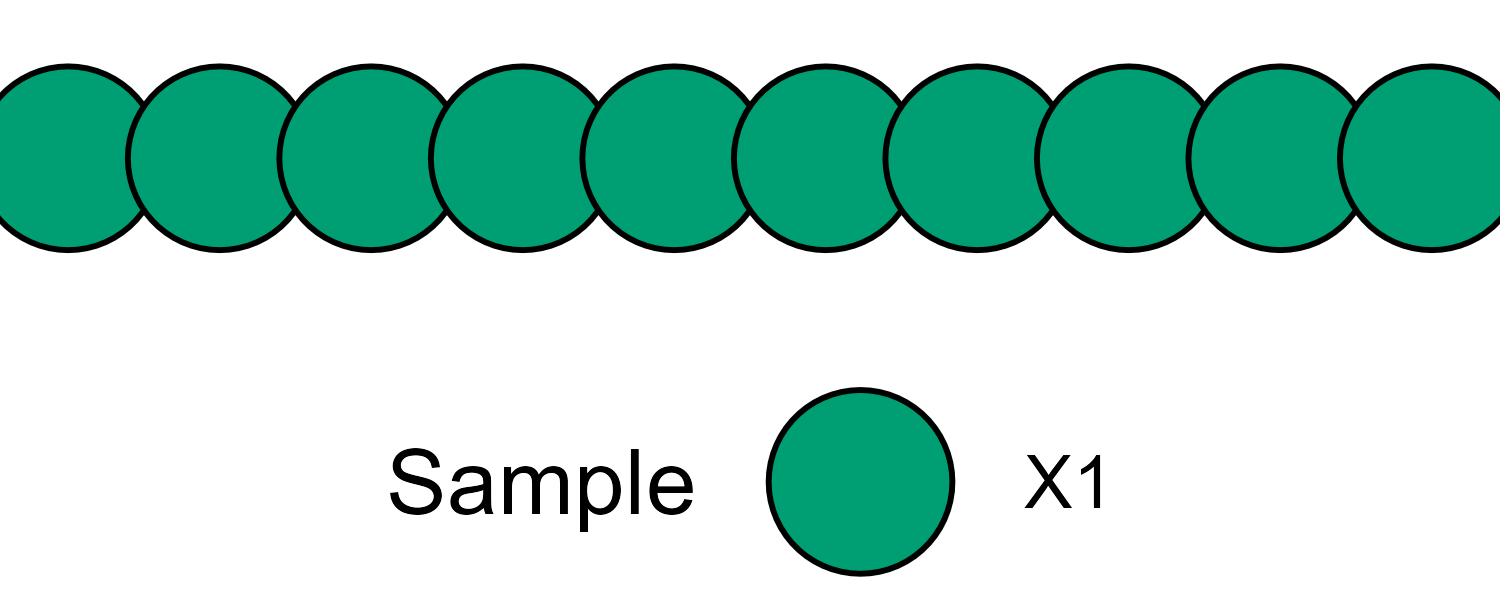
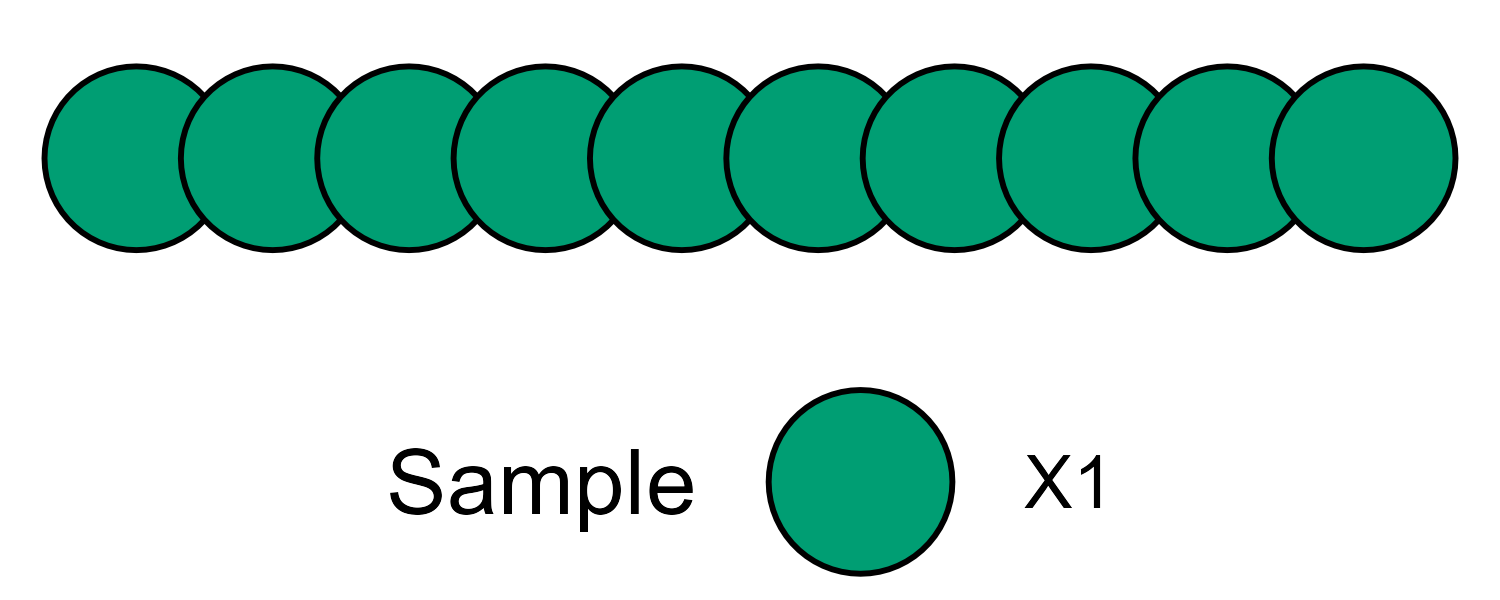
Revise sample figures and fix missing index entry

Changed region(s): [[0.0, 0.09, 1.0, 0.42], [0.736, 0.18, 0.7973, 0.33], [0.4293, 0.09, 0.5213, 0.21]]

diff --git a/docs/articles/index.html b/docs/articles/index.html
@@ -201,6 +201,8 @@
       <p class="section-desc"></p>
 
       <dl>
+        <dt><a href="understanding-gs-designs.html">Understanding group sequential designs</a></dt>
+        <dd><p>See this vignette if you want to understand how group sequential design probabilities are calculated and gain an intuitive understanding of the underlying methods.</p></dt>
         <dt><a href="GroupSeq.html">Introduction to GroupSeq</a></dt>
         <dd><p>Start here if this is your first time using GroupSeq. This vignette gives a brief overview on <em>what</em> and <em>what not</em> can be done with GroupSeq.</p></dt>
         <dt><a href="1-compute-bounds-H0.html">-1- Compute Bounds</a></dt>
